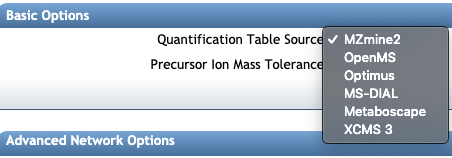
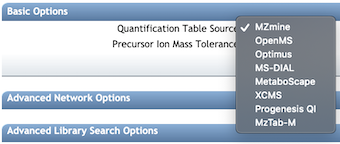
[FBMN] Update main doc page

diff --git a/docs/featurebasedmolecularnetworking.md b/docs/featurebasedmolecularnetworking.md
@@ -2,13 +2,15 @@
 
 ## Introduction
 
-**Feature-Based Molecular Networking** (FBMN) is a computational method that bridges popular mass spectrometry data processing tools for LC-MS/MS and molecular networking analysis on [GNPS](http://gnps.ucsd.edu). The supported tools are: [MZmine2](featurebasedmolecularnetworking-with-mzmine2.md), [OpenMS](featurebasedmolecularnetworking-with-openms.md), [MS-DIAL](featurebasedmolecularnetworking-with-ms-dial.md), [MetaboScape](featurebasedmolecularnetworking-with-metaboscape.md), [XCMS](featurebasedmolecularnetworking-with-xcms3.md), and [Progenesis QI](featurebasedmolecularnetworking-with-progenesisQI.md).
+[**NEW !!!**] The FBMN allows to generate molecular networks from MSE and Ion Mobility Spectrometry (IMS) data with MS-DIAL, or Progenesis QI, MetaboScape.
+
+**Feature-Based Molecular Networking** (FBMN) is a computational method that bridges popular mass spectrometry data processing tools for LC-MS/MS and molecular networking analysis on [GNPS](http://gnps.ucsd.edu). The supported tools are: [MZmine](featurebasedmolecularnetworking-with-mzmine2.md), [OpenMS](featurebasedmolecularnetworking-with-openms.md), [MS-DIAL](featurebasedmolecularnetworking-with-ms-dial.md), [MetaboScape](featurebasedmolecularnetworking-with-metaboscape.md), [XCMS](featurebasedmolecularnetworking-with-xcms3.md), [Progenesis QI](featurebasedmolecularnetworking-with-progenesisQI.md), and the [mzTab-M format](featurebasedmolecularnetworking-with-mztab-m.md).
 
 The main documentation for Feature-Based Molecular Networking is provided below.
 
 The Feature-Based Molecular Networking (FBMN) workflow is available on GNPS via:
 
-- [The Superquick Start page for FBMN](http://dorresteinappshub.ucsd.edu:5050/featurebasednetworking). This page enables rapid submission of jobs with default parameters.
+- [The Superquick Start page for FBMN](http://dorresteinappshub.ucsd.edu:5050/featurebasednetworking). This page enables rapid submission of jobs with limited options. 
 
 - [The standard GNPS interface page for FBMN](https://gnps.ucsd.edu/ProteoSAFe/index.jsp?params=%7B%22workflow%22:%22FEATURE-BASED-MOLECULAR-NETWORKING%22,%22library_on_server%22:%22d.speclibs;%22%7D) (you need to be logged in GNPS first).
 
@@ -20,30 +22,27 @@ This work builds on the efforts of our many colleagues, please make sure to cite
 
 Wang, M. et al. [Sharing and community curation of mass spectrometry data with Global Natural Products Social Molecular Networking](https://doi.org/10.1038/nbt.3597). Nat. Biotechnol. 34, 828–837 (2016).
 
-The citations from the mass spectrometry processing tools you used [[MZmine2](featurebasedmolecularnetworking-with-mzmine2.md), [OpenMS](featurebasedmolecularnetworking-with-openms.md), [MS-DIAL](featurebasedmolecularnetworking-with-ms-dial.md), [MetaboScape](featurebasedmolecularnetworking-with-metaboscape.md), and [XCMS](featurebasedmolecularnetworking-with-xcms3.md)].
+The citations from the mass spectrometry processing tools you used [[MZmine2](featurebasedmolecularnetworking-with-mzmine2.md), [OpenMS](featurebasedmolecularnetworking-with-openms.md), [MS-DIAL](featurebasedmolecularnetworking-with-ms-dial.md), [MetaboScape](featurebasedmolecularnetworking-with-metaboscape.md),[XCMS](featurebasedmolecularnetworking-with-xcms3.md), and [mzTab-M format](featurebasedmolecularnetworking-with-mztab-m.md)]. 
 
 
-## Mass Spectrometry Data Processing for the Feature Based Molecular Networking Workflow
+## Mass Spectrometry Data Processing for the FBMN
 
-In brief, mass spectrometry processing programs have been adapted to export two files (*feature quantification table* and *MS/MS spectral summary*) files that can be used with the Feature Based Molecular Networking (FBMN) workflow on GNPS. Alternatively, the FBMN supports the mzTab-M format that can be inputted along witht the mzML file(s). The tools supported and their main features are presented in the table below along with a step-by-step documentation to use in FBMN on GNPS:
+In brief, popular mass spectrometry processing programs have been adapted to export two files (*feature quantification table* and *MS/MS spectral summary*) files that can be used with the Feature Based Molecular Networking (FBMN) workflow on GNPS. Alternatively, the FBMN supports the mzTab-M format that can be inputted along witht the mzML file(s). The tools supported and their main features are presented in the table below along with a step-by-step documentation to use in FBMN on GNPS:
 
-|  Processing tool | FBMN Documentation  | Interface  |  Platform | Code availability|Target user|
-|---|---|---|---|---|---|
-|[MZmine2](https://github.com/mzmine/mzmine2/)|[See documentation](featurebasedmolecularnetworking-with-mzmine2.md)|Graphical UI|Any|[Open source](https://github.com/mzmine/mzmine2/blob/master/LICENSE.txt)|Mass spectrometrists|
-|[MS-DIAL](http://prime.psc.riken.jp/Metabolomics_Software/MS-DIAL/)|[See documentation](featurebasedmolecularnetworking-with-ms-dial.md) |Graphical UI|Windows|[Open source](http://prime.psc.riken.jp/Metabolomics_Software/MS-DIAL/)|Mass spectrometrists|
-|[OpenMS](https://github.com/OpenMS/OpenMS/)|[See documentation](featurebasedmolecularnetworking-with-openms.md)|Commandline|Any|[Open source](https://github.com/OpenMS/OpenMS/blob/develop/License.txt)|Bioinformaticians and developers|
-|[XCMS3](https://github.com/sneumann/xcms)|[See documentation](featurebasedmolecularnetworking-with-xcms3.md) |Commandline|Any|[Open source](https://github.com/sneumann/xcms)|Bioinformaticians and developers|
-|[MetaboScape](https://www.bruker.com/products/mass-spectrometry-and-separations/ms-software/metaboscape/overview.html)|[See documentation](featurebasedmolecularnetworking-with-metaboscape.md)|Graphical UI|Windows|Proprietary code|Mass spectrometrists|
+|  Processing tool | FBMN Documentation  | Data supported | Interface  |  Platform | Code availability|Target user|
+|---|---|---|---|---|---|---|
+|[MZmine](https://github.com/mzmine/mzmine2/)|[See documentation](featurebasedmolecularnetworking-with-mzmine2.md) | Non-targeted LC-MS/MS | Graphical UI|Any|[Open source](https://github.com/mzmine/mzmine2/blob/master/LICENSE.txt)|Mass spectrometrists|
+|[MS-DIAL](http://prime.psc.riken.jp/Metabolomics_Software/MS-DIAL/)|[See documentation](featurebasedmolecularnetworking-with-ms-dial.md) | Non-targeted LC-MS/MS, **MSE**, **Ion Mobility** | Graphical UI|Windows|[Open source](http://prime.psc.riken.jp/Metabolomics_Software/MS-DIAL/)|Mass spectrometrists|
+|[OpenMS](https://github.com/OpenMS/OpenMS/)|[See documentation](featurebasedmolecularnetworking-with-openms.md)| Non-targeted LC-MS/MS |Commandline|Any|[Open source](https://github.com/OpenMS/OpenMS/blob/develop/License.txt)|Bioinformaticians and developers|
+|[XCMS](https://github.com/sneumann/xcms)|[See documentation](featurebasedmolecularnetworking-with-xcms3.md) | Non-targeted LC-MS/MS |Commandline|Any|[Open source](https://github.com/sneumann/xcms)|Bioinformaticians and developers|
+|[MetaboScape](https://www.bruker.com/products/mass-spectrometry-and-separations/ms-software/metaboscape/overview.html)|[See documentation](featurebasedmolecularnetworking-with-metaboscape.md)| Non-targeted LC-MS/MS, **Ion Mobility** |Graphical UI|Windows|Proprietary code|Mass spectrometrists|
+|[Progenesis QI](http://www.nonlinear.com/progenesis/qi/)|[See documentation](featurebasedmolecularnetworking-with-progenesis.md)| Non-targeted LC-MS/MS, **MSE**, **Ion Mobility** |Graphical UI|Windows|Proprietary code|Mass spectrometrists|
+|[mzTab-M](https://pubs.acs.org/doi/abs/10.1021/acs.analchem.8b04310)|[See documentation](featurebasedmolecularnetworking-with-mztab-m.md)| Non-targeted LC-MS/MS | Standardized format|Multi-system|[Open source](https://github.com/lifs-tools/jmzTab-m)|All public|
+
 
 **IMPORTANT:** The software used for the LC-MS/MS data processing has to be configured and utilized as recommended by its documentation.
 
-
-### Mass Spectrometry Data Feature Detection with MZmine2 [RECOMMENDED]
-
-Currently, we recommend using the MZmine2 workflow, as it has been thoroughly tested. [See the documentation here](featurebasedmolecularnetworking-with-mzmine2.md) and the following [MZmine2 video tutorial:](tutorials/americangutmzmine.md)
-
-
-## The Feature Based Molecular Networking Workflow in GNPS
+## The FBMN Workflow in GNPS
 
 There is a dedicated Feature-Based Molecular Networking workflow on GNPS that [can be accessed here](https://gnps.ucsd.edu/ProteoSAFe/index.jsp?params=%7B%22workflow%22:%22FEATURE-BASED-MOLECULAR-NETWORKING%22,%22library_on_server%22:%22d.speclibs;%22%7D) (you need to be logged in GNPS first).
 
@@ -78,20 +77,21 @@ A simplified interace for Super Quick web interace for FBMN [is available here](
 
 ![img](img/featurebasedmolecularnetworking/superquick_fbmn.png)
 
-###Running the SuperQuick FBMN
-1. Indicate your email and your GNPS Credentials.
-2. Select the 'Feature Generation tool'.
+### Running the SuperQuick FBMN
+1. [Optional] Indicate your email and your GNPS Credentials.
+2. Select your '**feature detection and alignment tool'**.
 3. Select the parameters preset.
-4. Option A. Drag and drop your "feature quantification table" and "MS/MS spectral file" (.MGF). See the respective documentation for FBMN each tool.
-5. Optional. Drag and drop a [metadata table](networking.md#metadata).
-6. Click on "Analyze Uploaded Files with GNPS Molecular Networking".
+4. Drag and drop your "**feature quantification table**" (.CSV format).
+5. Drag and drop your "**MS/MS spectral summary**" file (.MGF file). 
+6. [Optional]. Drag and drop a [metadata table](networking.md#metadata).
+7. Click on "Analyze Uploaded Files with GNPS Molecular Networking".
 
-While this SuperQuick FBMN interface is convenient for quick analysis, we recommend using the standard FBMN workflow presented below that made possible to modify all the workflow parameters.
+While this SuperQuick FBMN interface is convenient for quick analysis, we recommend using the standard FBMN workflow. [**IMPORTANT**] The file uploaded along with the jobs submitted with Superquick start interface are deleted on monthly basis. Use the "standard" interface of the FBMN for persistant jobs and more options.
 
-### Overview of the "standard" Feature Based Molecular Networking Workflow
+### Overview of the standard interface
 ![img](img/featurebasedmolecularnetworking/overview.png)
 
-#### Select the software used for the LC-MS/MS data processing
+#### Select the file source
 ![img](img/featurebasedmolecularnetworking/select.png)
 
 ### Molecular Networks Options
@@ -163,25 +163,22 @@ Here is an example of web-browser view of molecular networks. Click on the link 
 
 ![Results](img/featurebasedmolecularnetworking/web_view_FBMN.png)
 
-#### Dereplicator - Insilico Peptidic Natural Products Tool
-
-The Insilico Peptidic Natural Products Dereplicator is a bioinformatic tool that allows the annotation of known peptidic natural products in MS/MS data using in silico fragmentation tree. This workflow is also included into the Feature Based Molecular Network workflow, then you have the option to use it by clicking into Advanced External tools. After your job has completed you can explore your results and even *clone* the Dereplicator job and modify the parameters.
-
-Check out the [**full documentation** for further description settings and **citations**](dereplicator.md).
-
-![emperor](img/featurebasedmolecularnetworking/dereplicator.png)
-
-If you use that tool, please cite the DEREPLICATOR papers. [See citations in the main DEREPLICATOR documentation](dereplicator.md).
-
-
 ### Inspecting the Results of FBMN in Cytoscape
 
-Cytoscape is an open source software platform used to visualize, analyze and annotate molecular networks from GNPS. [See the documentation here](featurebasedmolecularnetworking-cytoscape.md)
+Cytoscape is an open source software platform used to visualize, analyze and annotate molecular networks from GNPS. [See the documentation here](featurebasedmolecularnetworking-cytoscape.md).
 
 ![img](img/cytoscape/import_2.png)
 
-### Demo GNPS job of Feature Based Molecular Networking
+### Demo GNPS job of FBMN
 [Here is an example FBMN](https://gnps.ucsd.edu/ProteoSAFe/status.jsp?task=52a390c8eb654b7fa8d61a1c7a4aaab5) job with files resulting from MZmine2 processing of a subset of the [American Gut Project] (http://humanfoodproject.com/americangut/).
+
+### Running the DEREPLICATOR
+
+The Insilico Peptidic Natural Products Dereplicator is a bioinformatic tool that allows the annotation of known peptidic natural products in MS/MS data using in silico fragmentation tree. This workflow is also included into the Feature Based Molecular Network workflow, then you have the option to use it by clicking into Advanced External tools. After your job has completed you can explore your results and even *clone* the Dereplicator job and modify the parameters.
+
+If you use that tool, please cite the DEREPLICATOR papers. [See citations in the main DEREPLICATOR documentation](dereplicator.md).
+
+![emperor](img/featurebasedmolecularnetworking/dereplicator.png)
 
 ### Running Network Annotation Propagation
 
@@ -201,6 +198,12 @@ MS2LDA is a tool that decomposes molecular fragmentation data derived from large
 
 If you use that tool, please cite MS2LDA papers. [See citations in the main MS2LDA documentation](ms2lda.md).
 
+### Running MolNetEnhancer with FBMN
+
+[MolNetEnhancer is a workflow]([https://www.mdpi.com/2218-1989/9/7/144](https://www.mdpi.com/2218-1989/9/7/144)) that enables to combine the outputs from molecular networking, MS2LDA, in silico structure annotation tools (such as Network Annotation Propagation or DEREPLICATOR) and the automated chemical classification through ClassyFire to provide a more comprehensive chemical overview of metabolomics data whilst at the same time illuminating structural details for each fragmentation spectrum. For more information refer to the main MolNetEnhancer publication.
+
+See the [main documentation of MolNetEnh](molnetenhancer.md) for informations about using it for FBMN. 
+
 ### Viewing the PCoA plot with EMPeror in Qiime2
 
 EMPeror, is an open source and web browser enabled tool that allows researchers to perform rapid exploratory investigations of 3D visualizations of data. To view the PCoA plot (using Bray-Curtis dissimilarity metrics) with the EMPeror Qiime2 plugin, click on **"View qiime2 Emperor Plots"**.
@@ -211,10 +214,10 @@ EMPeror, is an open source and web browser enabled tool that allows researchers 
 
 **Citation for Qiime2**: Bolyen, E. et al. QIIME 2: Reproducible, interactive, scalable, and extensible microbiome data science. (PeerJ Preprints, 2018). [doi:10.7287/peerj.preprints.27295v2](https://peerj.com/preprints/27295/)
 
-### Video Tutorial - Analyze Feature Based Molecular Networking in GNPS
+### Video Tutorial - Analyze FBMN in GNPS
 
 This video presents
-<iframe width="800" height="500" src="https://www.youtube.com/embed/NTkQ0fS1aug"> </iframe>
+<iframe width="600" height="400" src="https://www.youtube.com/embed/NTkQ0fS1aug"> </iframe>
 
 ## Tutorials
 
@@ -226,9 +229,25 @@ See our [tutorial on using MZmine2](tutorials/americangutmzmine.md) for FBMN ana
 - The FBMN source code can be found on the [GNPS_Workflows GitHub repository](https://github.com/CCMS-UCSD/GNPS_Workflows/tree/master/feature-based-molecular-networking).
 
 #### Input files requirements
-- The *Feature Table* (.TXT or CSV file) needs to have unique *Feature IDentifier* (integer) for each LC-MS1 feature that must match the "SCANS=" header of the corresponding spectrum in the *MS/MS spectral file* (.MGF file). Note that the number of LC-MS1 features in the *Feature Table* can be larger than the number of LC-MS1 features with a spectrum in the *MS/MS spectral file*. And the *Feature IDentifier* does not have to be sequencial. As a result, the *Feature Table* can contain LC-MS1 feature that doesn't have an associated MS/MS scan in the *MS/MS spectral file*. The PCoA generated with qiime2 EMPeror uses the entire content of *Feature Table* provided.
 
-- The format of the *Feature Table* should be consistent with the representative *Feature Table*  provided on [this page](https://github.com/CCMS-UCSD/GNPSDocumentation/tree/master/docs/tutorials/AG_tutorial_files). Note that internally, the *Feature Table* file inputted by the user are converted to a standard MZmine2 format prior to FBMN analysis in GNPS. The python scripts used for the conversion *Feature Table* from various software [are available here](https://github.com/CCMS-UCSD/GNPS_Workflows/tree/master/feature-based-molecular-networking/tools/feature-based-molecular-networking/scripts). If you want to add support for another LC-MS processing tool, contact us.
+
+##### Feature quantification table
+The *feature quantification table* (.TXT or CSV file) needs to have unique *Feature IDentifier* (integer) for each LC-MS1 feature that must match the "SCANS=" header of the corresponding spectrum in the *MS/MS spectral summary* (.MGF file). Note that the number of LC-MS1 features in the *feature quantification table* can be larger than the number of LC-MS1 features with a spectrum in the *MS/MS spectral file*. And the *Feature IDentifier* does not have to be sequencial. As a result, the *feature quantification table* can contain LC-MS1 feature that doesn't have an associated MS/MS scan in the *MS/MS spectral file*. The PCoA generated with qiime2 EMPeror uses the entire content of *feature quantification table* provided.
+
+##### MS/MS spectral summary
+The format of the *feature quantification table* should be consistent with the representative *feature quantification tables* defined for each processing tool. See [this page for example files](https://github.com/CCMS-UCSD/GNPSDocumentation/tree/master/docs/tutorials/AG_tutorial_files). Note that internally, the *feature quantification table* file inputted by the user are converted to a standard internal format prior to FBMN analysis in GNPS. The python scripts used for the conversion *feature quantification Table* from various software [are available here](https://github.com/CCMS-UCSD/GNPS_Workflows/tree/master/feature-based-molecular-networking/tools/feature-based-molecular-networking/scripts). If you want to add support for another LC-MS processing tool, please contact us.
+
+##### Support for mz-Tab-M format
+
+The **mzTab-M** format is a standardized output designed for the report of metabolomics MS-data processing results. The FBMN workflow now supports the mzTab-M format (2.0, release 1.0.5). The **mzTab-M** file has to be inputed along with the related **mzML** files. 
+
+Basically, the **mzTab-M** is used to retrieve for each LC-MS/MS feature:
+
+- The abundance of the LC-MS/MS feature in each sample.
+- The filename (**mzML**) and index of the associated MS/MS spectrum. 
+
+More informations in the [FBMN with mzTab-M documentation](featurebasedmolecularnetworking-with-mztab-m.md).
+
 
 ### Citation
 
